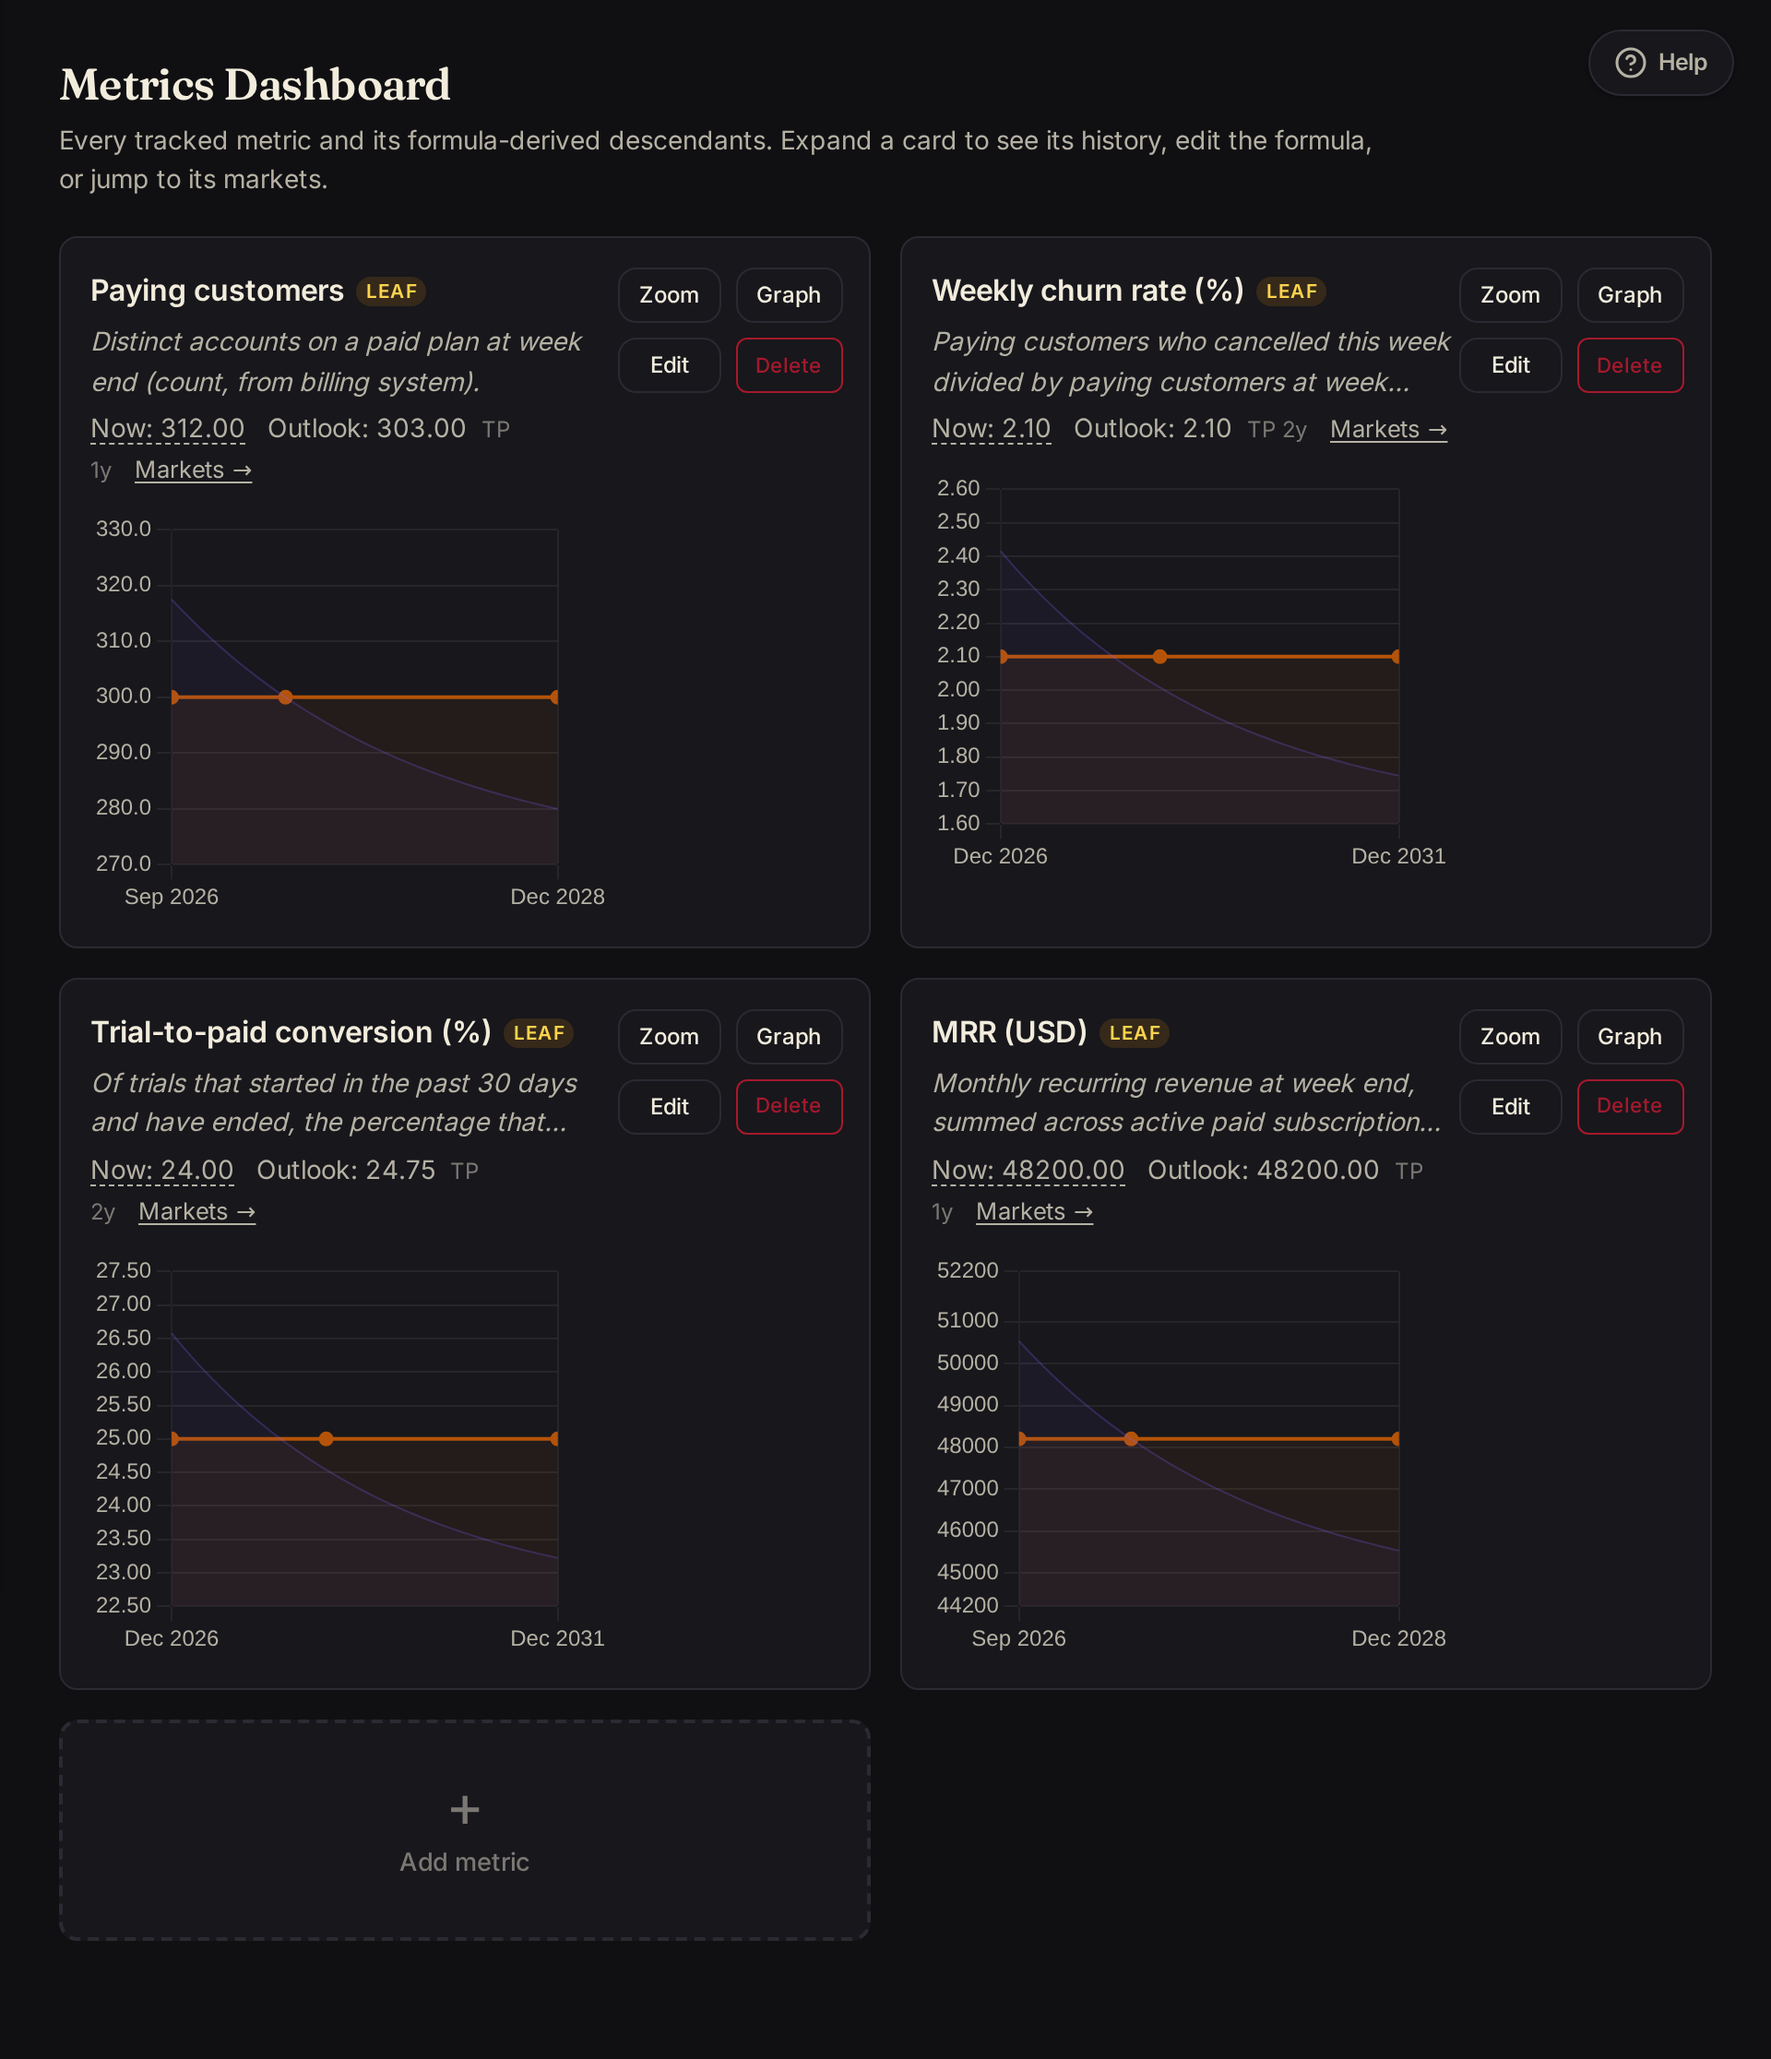
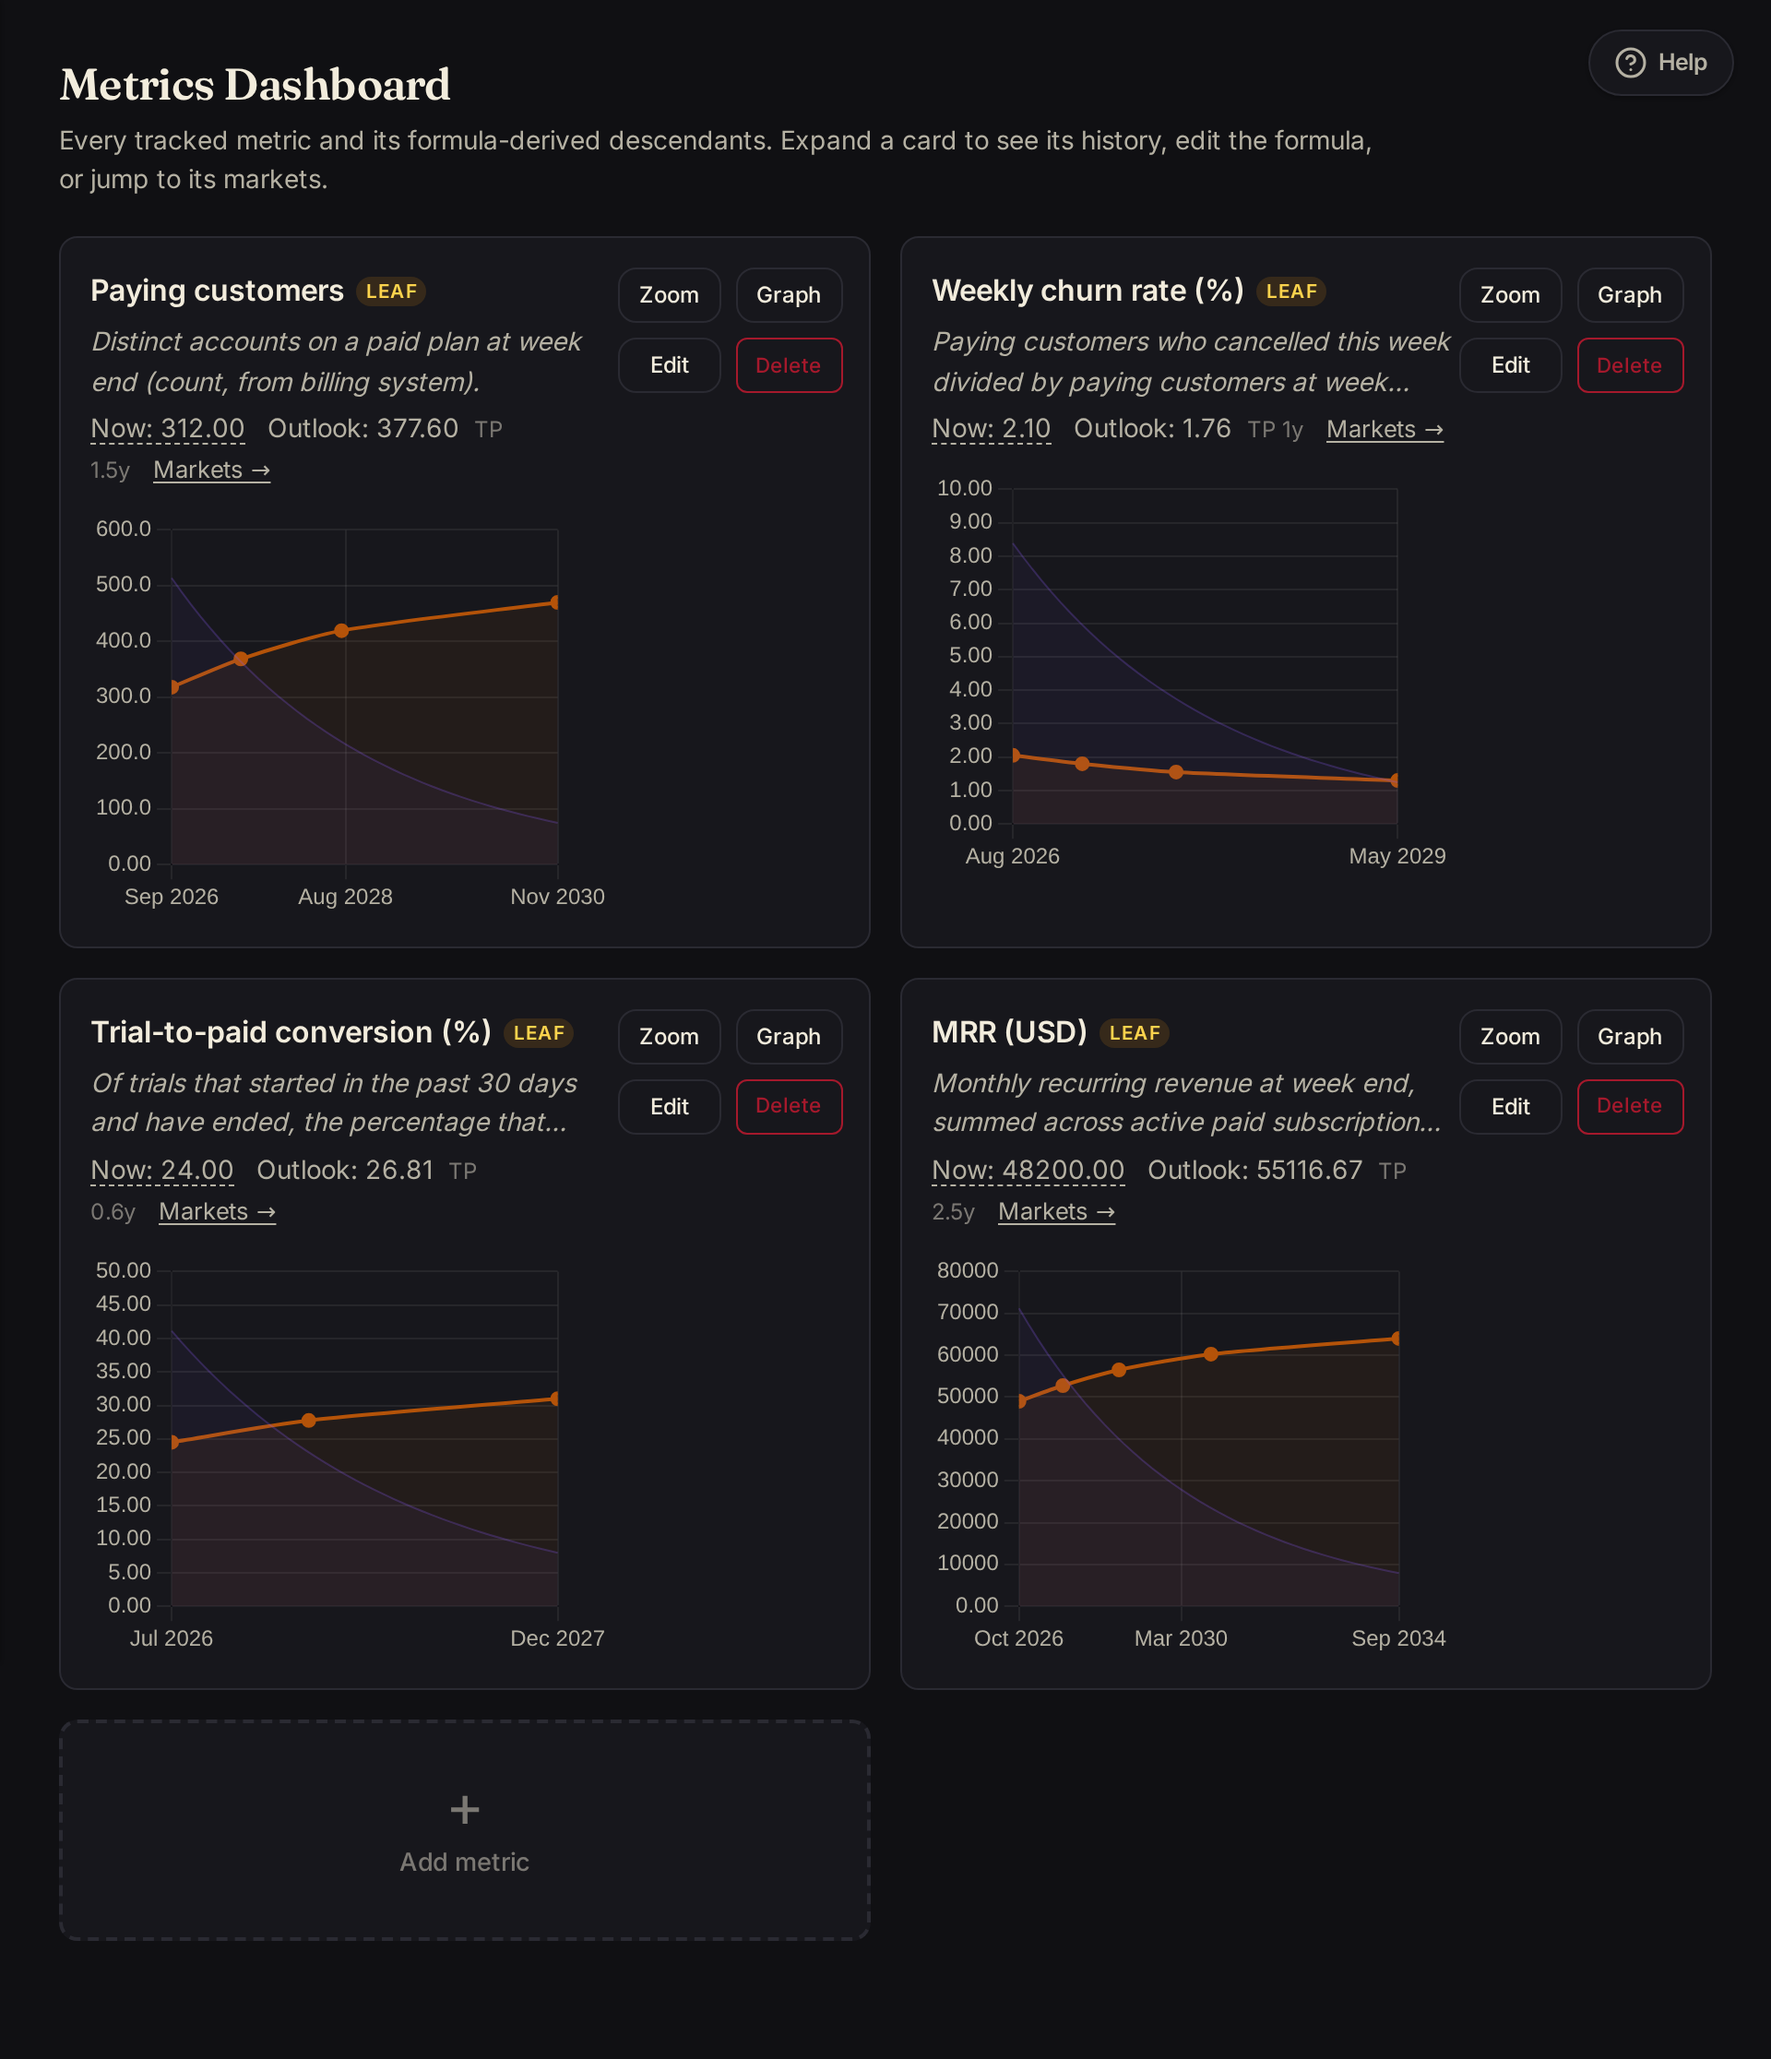
demo: realistic, varied metric charts (different TP horizons + trended consensus)
The Kestrel dashboard charts were identical and flat. Now each metric has a
distinct time-preference horizon and density (so the curves differ in span,
granularity, and point count) and a logical consensus trajectory:
  MRR        $49k -> $64k  (halfLife 2.5y)
  Customers  312 -> 470    (1.5y)
  Trial->paid 24 -> 31%    (0.6y, short horizon)
  Churn      2.05 -> 1.3%  (1.0y, declining)

- Add scripts/seed-demo-metrics.py: sets per-metric time preference and moves
  each market's consensus along its trajectory via the AMM trade-towards-value
  mode (precise, no whipsaw). SKIP_TP=1 re-applies just the trajectory.
- Kestrel set private so platform bots stop flattening consensus to the current
  value. Refresh landing + library metrics/markets shots (light + dark).
- Document the shaping flow in docs/screenshots.md.

diff --git a/scripts/seed-demo-metrics.py b/scripts/seed-demo-metrics.py
@@ -1,0 +1,105 @@
+#!/usr/bin/env python3
+"""
+Shape the Kestrel demo workspace so its metric charts look realistic:
+different time-preference horizons/densities per metric (so the curves differ
+in span, granularity, and point count) and a logical consensus trajectory per
+metric (so the forecast lines slope instead of sitting flat).
+
+Idempotent: matches metrics by name, sets time preference, respawns markets,
+then moves each market's consensus to a point on the metric's trajectory using
+the AMM "trade towards value" mode (betTowardsValue), which sets consensus
+precisely rather than whipsawing low-liquidity markets.
+
+Usage:
+  TELARCHY_KEY=mtrk_... TELARCHY_EMAIL=you@x.com TELARCHY_PASSWORD=... \
+    WS_ID=<workspace-uuid> python3 scripts/seed-demo-metrics.py
+
+See docs/screenshots.md.
+"""
+import os, json, time, http.cookiejar, urllib.request, urllib.error
+from collections import defaultdict
+
+BASE = os.environ.get("BASE_URL", "https://telarchy.com")
+KEY = os.environ["TELARCHY_KEY"]
+WS = os.environ["WS_ID"]
+EMAIL = os.environ.get("TELARCHY_EMAIL")
+PW = os.environ.get("TELARCHY_PASSWORD")
+
+# Per-metric shape (matched by name substring) + consensus trajectory.
+# start/far are the consensus at the nearest/furthest sampled date.
+CONFIG = [
+    {"match": "MRR",            "halfLife": 2.5, "density": 5, "start": 49000, "far": 64000},
+    {"match": "Paying customers","halfLife": 1.5, "density": 4, "start": 318,  "far": 470},
+    {"match": "Trial-to-paid",  "halfLife": 0.6, "density": 3, "start": 24.5, "far": 31},
+    {"match": "churn",          "halfLife": 1.0, "density": 4, "start": 2.05, "far": 1.3},
+]
+
+cj = http.cookiejar.CookieJar()
+opener = urllib.request.build_opener(urllib.request.HTTPCookieProcessor(cj))
+
+def call(method, path, body=None, key=False):
+    data = json.dumps(body).encode() if body is not None else None
+    r = urllib.request.Request(BASE + path, data=data, method=method)
+    r.add_header("Content-Type", "application/json")
+    r.add_header("X-Workspace-Id", WS)
+    if key:
+        r.add_header("X-API-Key", KEY)
+    try:
+        with opener.open(r, timeout=40) as resp:
+            t = resp.read().decode()
+            return resp.status, (json.loads(t) if t else {})
+    except urllib.error.HTTPError as e:
+        return e.code, e.read().decode()
+
+# 1) Log in so trades run as the admin participant (admin master key can't trade).
+if EMAIL and PW:
+    s, _ = call("POST", "/api/auth/sign-in/email", {"email": EMAIL, "password": PW})
+    print("login:", s)
+
+# 2) Fetch metrics, set per-metric time preference (respawns markets).
+# SKIP_TP=1 leaves time preference (and the market set) untouched and only
+# re-sets the consensus trajectory on the existing markets, useful when bots or
+# a refresh have flattened a previously-shaped workspace.
+skip_tp = os.environ.get("SKIP_TP") == "1"
+s, data = call("GET", "/api/metrics", key=True)
+metrics = data if isinstance(data, list) else data.get("metrics", [])
+id_to_cfg = {}
+for m in metrics:
+    for c in CONFIG:
+        if c["match"].lower() in (m.get("name") or "").lower():
+            id_to_cfg[m["id"]] = c
+            if not skip_tp:
+                s, _ = call("PUT", f"/api/metrics/{m['id']}",
+                            {"timePreference": {"enabled": True, "halfLife": c["halfLife"], "density": c["density"]}},
+                            key=True)
+                print(f"TP {m['name']:30.30} hl={c['halfLife']} density={c['density']} -> {s}")
+
+# 3) Refresh so the new sampled-date markets exist.
+if not skip_tp:
+    call("POST", "/api/predictions/markets/refresh", {}, key=True)
+    time.sleep(2)
+
+# 4) Move each market's consensus along its metric's trajectory.
+s, data = call("GET", "/api/predictions/markets?limit=200", key=True)
+mkts = data if isinstance(data, list) else data.get("markets", [])
+by_metric = defaultdict(list)
+for m in mkts:
+    if m.get("metricId") in id_to_cfg and m.get("active", True) and not m.get("resolved") and not m.get("voided"):
+        by_metric[m["metricId"]].append(m)
+
+for mid, ms in by_metric.items():
+    c = id_to_cfg[mid]
+    ms.sort(key=lambda m: m.get("targetDate", ""))
+    n = len(ms)
+    for i, m in enumerate(ms):
+        frac = (i / (n - 1)) if n > 1 else 1.0
+        target = round(c["start"] + (c["far"] - c["start"]) * frac, 4)
+        # clamp inside (rangeMin, rangeMax)
+        lo, hi = m.get("rangeMin", 0), m.get("rangeMax", target * 2 or 1)
+        target = min(max(target, lo + (hi - lo) * 0.01), hi - (hi - lo) * 0.01)
+        s, r = call("POST", "/api/predictions/trade", {"marketId": m["id"], "value": target, "maxBudget": 60})
+        tail = r.get("consensus") if isinstance(r, dict) else r
+        print(f"  {c['match']:16.16} {m.get('targetDate'):10} -> target {target} (http {s}, consensus {tail})")
+        time.sleep(0.2)
+
+print("done")

diff --git a/docs/screenshots.md b/docs/screenshots.md
@@ -25,6 +25,41 @@ to **Open**, so the platform bots auto-join and generate real forecast activity
 Do not point the capture at a real workspace (e.g. LookPilot) unless you intend
 to publish real revenue/conversion data.
 
+Kestrel is kept **private** so the platform bots don't trade on it. While it
+was Open, the anchor/stabilizer bots continuously pulled every market's
+consensus back to the current value, which flattened the forecast charts. If
+you re-open it, expect the charts to flatten again within a poll cycle.
+
+### Making the charts realistic (`scripts/seed-demo-metrics.py`)
+
+A fresh template workspace has identical, flat forecast charts: every metric
+has the same time preference (so the same sample dates/shape) and untraded
+markets sit at the current value (so flat lines). `scripts/seed-demo-metrics.py`
+fixes both:
+
+- Sets a **different `halfLife` + `density`** per metric, so each chart spans a
+  different horizon, granularity, and number of points.
+- Moves each market's consensus along a **logical trajectory** (MRR and
+  customers up, churn down, etc.) using the AMM "trade towards value" mode,
+  which sets consensus precisely instead of whipsawing low-liquidity markets.
+
+```bash
+# Full shape (sets time preference + respawns markets + trajectory):
+TELARCHY_KEY=mtrk_... WS_ID=<workspace-uuid> \
+  TELARCHY_EMAIL=you@x.com TELARCHY_PASSWORD=... \
+  python3 scripts/seed-demo-metrics.py
+
+# Only re-apply the trajectory on the existing markets (e.g. after drift),
+# without touching time preference / the market set:
+SKIP_TP=1 TELARCHY_KEY=... WS_ID=... TELARCHY_EMAIL=... TELARCHY_PASSWORD=... \
+  python3 scripts/seed-demo-metrics.py
+```
+
+Edit the `CONFIG` list in the script to change the per-metric horizons and
+trajectories. After shaping, recapture and copy the metrics shot to the landing
+assets (below). The trajectory will slowly drift as calendar time shifts the
+sampled dates; re-run with `SKIP_TP=1` to refresh it.
+
 ## Prerequisites
 
 1. The gstack **`browse`** headless-Chromium CLI (the same tool used for QA).
